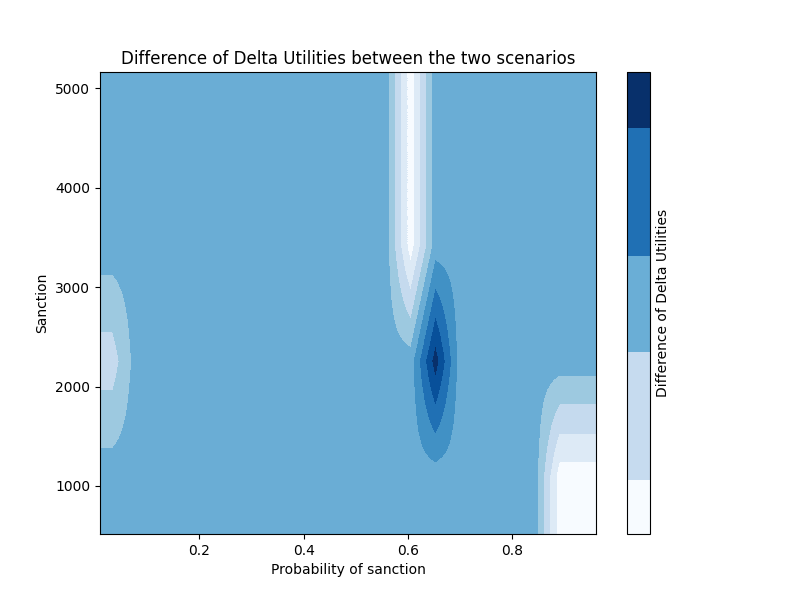
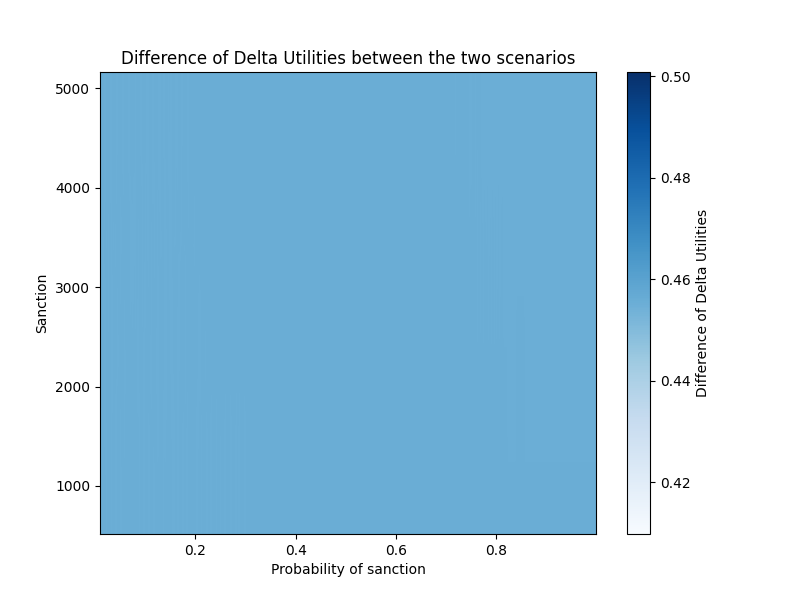
k

diff --git a/Biogas/Biogas.py b/Biogas/Biogas.py
@@ -13,14 +13,15 @@ N_strip_eff = 0.7 # Efficienza di rimozione dell'azoto
 N_strip_eff_val = np.arange(0.5,1,0.1) # min, med, max
 Land_spred_ha = 1
 Land_cost = 589 # Euro/ha, Dati RICA, (Affitti passivi / sau in affitto)
-Land_cost_to_right = 0.005 # fraction of the land cost to be paid in case of land rights
+Land_cost_to_right = 0.1 # fraction of the land cost to be paid in case of land rights
 Land_rights = Land_cost * Land_cost_to_right
 p_sanction = 0.3 # Probabilità di sanzione
-p_sanction_val = np.arange(0.01,1,0.05)
+p_sanction_val = np.arange(0.01,1,0.001)
 Land_cost_to_rights_val = np.arange(0.001,0.2,0.001) #
 Land_cost_0	= 0 #Land cost for non-compliace
 Sanction = 2582.28  # 516.46 ad euro 5164.57 , Disciplina tecnica per la utilizzazione dei liquami zootecnici - Le sanzioni amministrative sono così graduate: a) in sede di prima violazione, la sanzione da applicare è pari alla sanzione minima prevista;b) in sede di seconda violazione, la sanzione da applicare è pari al 50% della sanzione massima prevista;c) in sede di terza violazione, la sanzione da applicare è pari al 75% della sanzione massima prevista;d) in sede di quarta e successiva violazione, la sanzione da applicare è pari alla sanzione massima prevista
 Sanction_val = [516.46, 2582.28, 3873.43 , 5164.57] # min, 50%, 75%, max
+Sanction_val2 = np.arange(516.46, 5164.57, 0.001) # min, 50%, 75%, max
 
 Risk_aversion = 0.193 # Italian farmer risk aversion by elicitation using lotteries, source: https://doi.org/10.1002/aepp.13330 , 0.164 , 0.223
 Risk_aversion_val = np.arange(0.164, 0.223, 0.001) # min, max
@@ -87,15 +88,37 @@ def plot_results(results, par1 , par2, b = False):
         plt.savefig(('./Grafici/'+par1+'_'+par2+'.png'))
     plt.show()
 
-def heatmap2d(arr: np.ndarray, xlabel, ylabel, x_param, y_param, b = False):
+def heatmap2d(arr: np.ndarray, xlabel, ylabel, x_param, y_param, b = False, line = False):
 
     plt.figure(figsize=(8,6))
-    norm = colors.TwoSlopeNorm(vmin= -0.8, vcenter=0 , vmax=+1.5)
+    norm = colors.TwoSlopeNorm(vmin= -2, vcenter=0 , vmax=+4)
     img = plt.imshow(arr,aspect='auto', origin='lower', 
                  extent=[ y_param[0], y_param[-1],x_param[0], x_param[-1]], 
                   interpolation= 'Bilinear', cmap='RdYlGn', norm=norm)
     # Add colorbar
     plt.colorbar(img, label='Delta utility')
+    if line:
+        zero_level = np.where(np.abs(arr) < 0.001)  # Indices where Delta Utility ≈ 0
+
+        if zero_level[0].size > 0 and zero_level[1].size > 0:
+            # Convert indices to corresponding parameter values
+            x_vals = np.array([x_param[i] for i in zero_level[0]])  # Extract corresponding x values
+            y_vals = np.array([y_param[j] for j in zero_level[1]])  # Extract corresponding y values
+
+            # Sort points by x for interpolation
+            sorted_indices = np.argsort(x_vals)
+            x_vals_sorted = x_vals[sorted_indices]
+            y_vals_sorted = y_vals[sorted_indices]
+            
+
+            # Interpolate to create a smooth line
+            if len(x_vals_sorted) > 1:
+                interp_func = interp1d(x_vals_sorted, y_vals_sorted, kind='linear', fill_value="extrapolate")
+                x_interp = np.linspace(min(x_vals_sorted), max(x_vals_sorted), 100000)
+                y_interp = interp_func(x_interp)
+                plt.legend()
+                plt.plot(y_interp, x_interp, label='Zero Δ Utility')
+    
     if b:
         plt.title('With Nitrate stripping')
     else:
@@ -185,34 +208,9 @@ for i in range(len(Land_cost_to_rights_val)):
         deltab[i,j]= resultsb[i,j] - results[i,j]
 # Plot the heatmap
 lr = Land_cost_to_rights_val*Land_cost
-heatmap2d(results, 'Risk aversion', 'Manure disposal cost', lr, Risk_aversion_val)
+heatmap2d(results, 'Risk aversion', 'Manure disposal cost', lr, Risk_aversion_val,0,1)
 heatmap2d(resultsb, 'Risk aversion', 'Manure disposal cost', lr, Risk_aversion_val,1)
 deltab_heat(deltab, 'Risk aversion', 'Manure disposal cost',Sanction_val,p_sanction_val)
-#%%
-a = np.array(([1,2,3,4,5,6,7,8,9,10],[1,2,3,4,5,6,7,8,9,10],[5,2,0.1,0.001,0.0001,0,0,9,10,9]))
-b = np.where(np.abs(a) < 1e-2)
-
-zero_level = np.where(np.abs(results) < 1e-2)  # Indices where Delta Utility ≈ 0
-
-
-#%%   
-if zero_level[0].size > 0 and zero_level[1].size > 0:
-    # Convert indices to corresponding parameter values
-    x_vals = np.array([x_param[i] for i in zero_level[0]])  # Extract corresponding x values
-    y_vals = np.array([y_param[j] for j in zero_level[1]])  # Extract corresponding y values
-
-    # Sort points by x for interpolation
-    sorted_indices = np.argsort(x_vals)
-    x_vals_sorted = x_vals[sorted_indices]
-    y_vals_sorted = y_vals[sorted_indices]
-
-    # Interpolate to create a smooth line
-    if len(x_vals_sorted) > 1:
-        interp_func = interp1d(x_vals_sorted, y_vals_sorted, kind='linear', fill_value="extrapolate")
-        x_interp = np.linspace(min(x_vals_sorted), max(x_vals_sorted), 100)
-        y_interp = interp_func(x_interp)
-        plt.plot(y_interp, x_interp, 'b--', label='Zero Δ Utility')
-
 # %% Sanction and probability of sanction
 results2 = np.zeros((len(Sanction_val),len(p_sanction_val)))
 resultsb  = np.zeros((len(Sanction_val),len(p_sanction_val)))
@@ -223,8 +221,8 @@ for i in range(len(Sanction_val)):
         resultsb[i,j] = delta_compliance_b(Land_rights, Risk_aversion, p_sanction_val[j], Land_cost_0, Sanction_val[i], N_strip_eff)
         deltab[i,j]= resultsb[i,j] - results2[i,j]
 # Plot the heatmap
-heatmap2d(results2,  'Probability of sanction', 'Sanction',Sanction_val,p_sanction_val )
-heatmap2d(resultsb,  'Probability of sanction', 'Sanction',Sanction_val,p_sanction_val,1 )
+heatmap2d(results2,  'Probability of sanction', 'Sanction',Sanction_val,p_sanction_val,0,1 )
+heatmap2d(resultsb,  'Probability of sanction', 'Sanction',Sanction_val,p_sanction_val,1,1 )
 deltab_heat(deltab, 'Probability of sanction', 'Sanction',Sanction_val,p_sanction_val)
 
 # %% Risk aversion and probability of sanction
